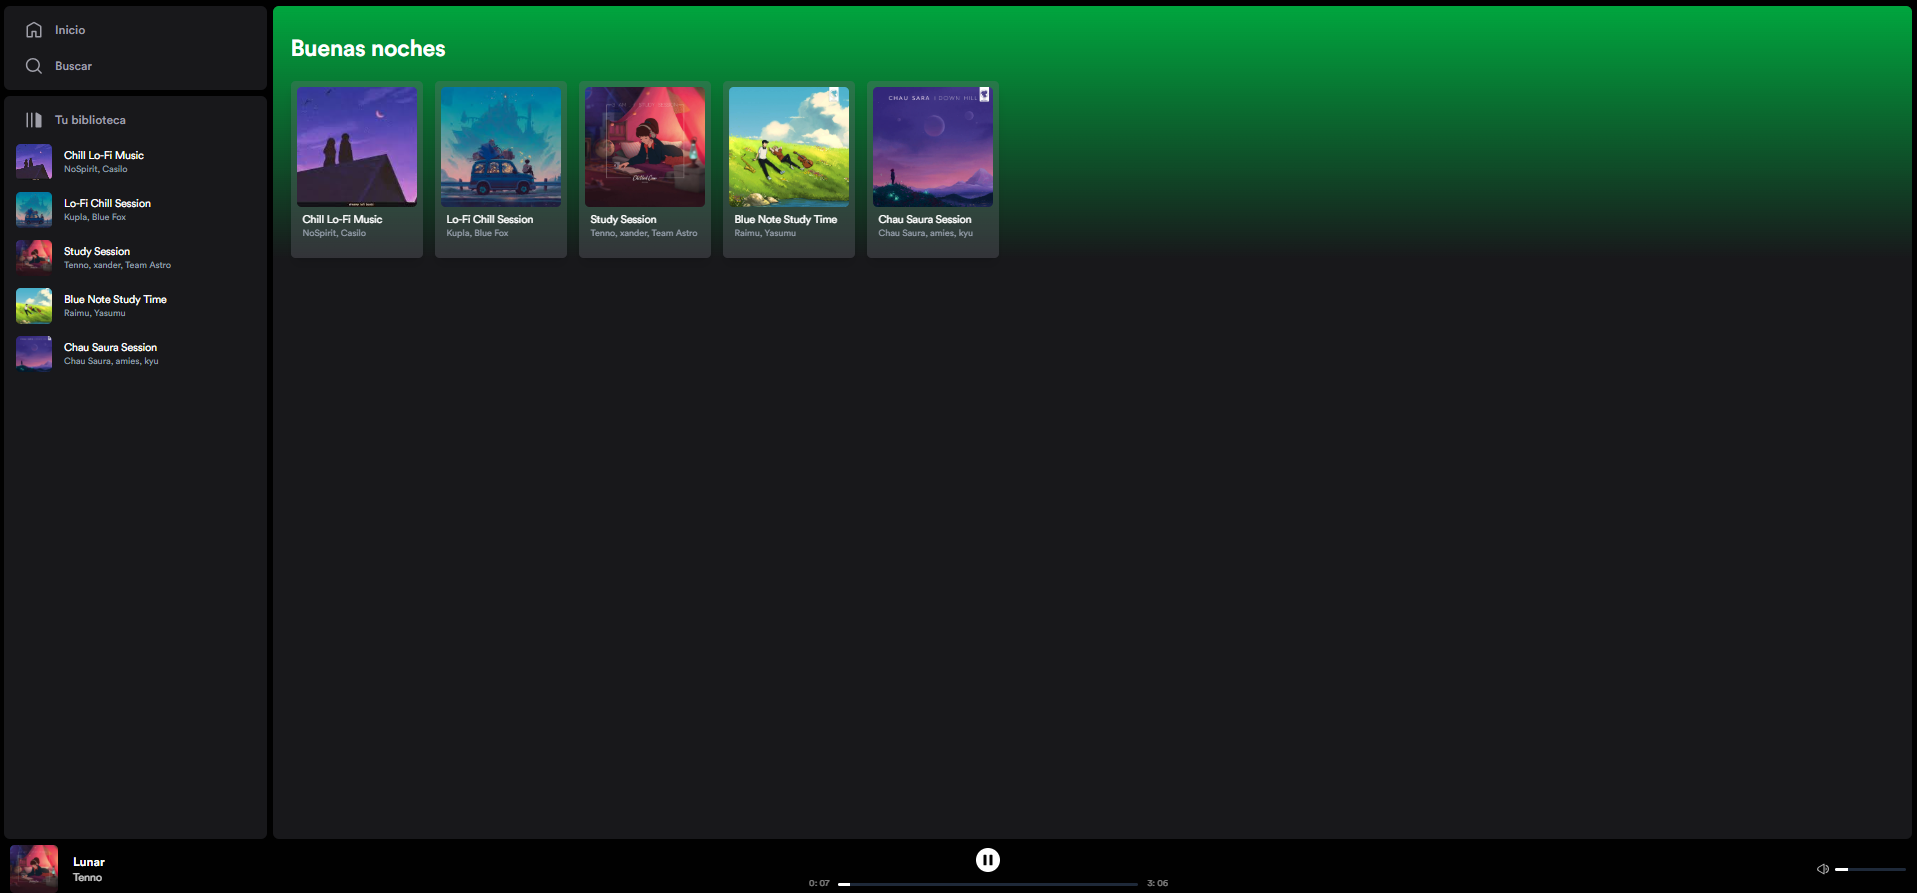
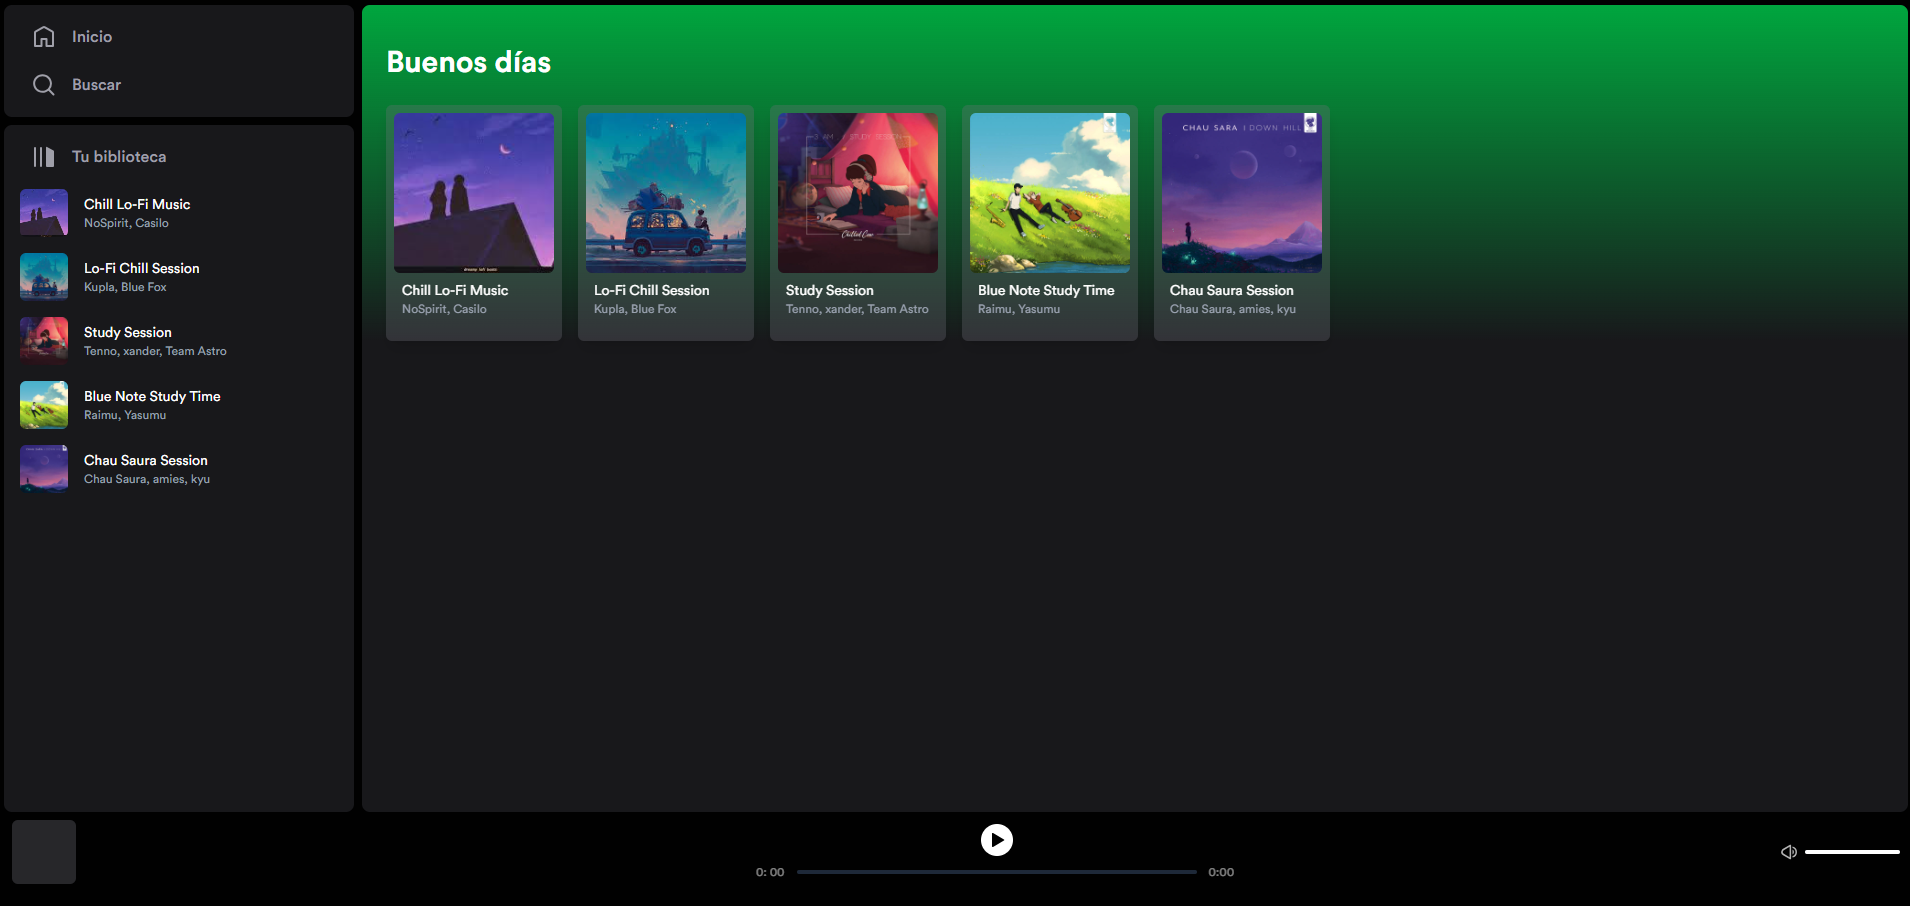
fix: improve player responsiveness for mobile devices

Changed region(s): [[0.0, 0.0, 1.0, 1.0]]

diff --git a/src/components/Player.jsx b/src/components/Player.jsx
@@ -117,7 +117,7 @@ const SongControl = ({ audio }) => {
         value={[currentTime]}
         max={audio?.current?.duration ?? 0}
         min={0}
-        className="w-[400px]"
+        className="flex-1"
         onValueChange={(value) => {
           const [newCurrentTime] = value;
           audio.current.currentTime = newCurrentTime;
@@ -212,7 +212,7 @@ export function Player() {
 
   return (
     <div className="flex flex-row justify-between w-full px-2 z-50">
-      <div className="w-[200px]">
+      <div className="hidden md:block w-[200px]">
         <CurrentSong {...currentMusic.song} />
       </div>
 
@@ -229,7 +229,7 @@ export function Player() {
           <audio ref={audioRef} />
         </div>
       </div>
-      <div className="grid place-content-center">
+      <div className="hidden md:grid place-content-center">
         <VolumeControl />
       </div>
     </div>

diff --git a/README.md b/README.md
@@ -13,7 +13,7 @@ The application displays playlists, songs, and a music player UI with dynamic in
 
 # 🌐 Live Demo
 
-
+https://spotify-clone-app-vert-five.vercel.app/
 
 ----
 
@@ -47,12 +47,23 @@ The goal of this project is to practice **component-based architecture and moder
 
 # 📸 Screenshot
 
+https://spotify-clone-app-vert-five.vercel.app/
+
 ### Main interface
+
 ![Main interface](/src/assets/screenshot_home.png)
 
 ### Playlist page
+
 ![Playlist](/src/assets/screenshot_playlist.png)
 
+### Music player
+
+![Player](/src/assets/screenshot_player.png)
+
+### Responsive layout
+
+![Responsive](/src/assets/screenshot_mobile.png)
 
 ---
 
@@ -150,6 +161,8 @@ Through this project I practiced:
 - Integrate Spotify API
 - Add search functionality
 - Improve mobile responsiveness
+- Optimize layout for small screens
+- Refine the navigation experience on mobile devices
 - Implement authentication
 
 ---
